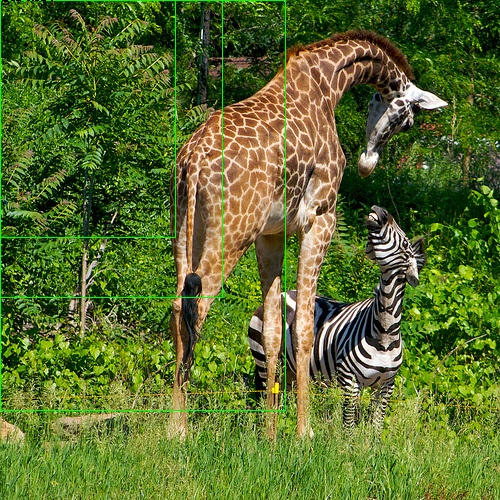
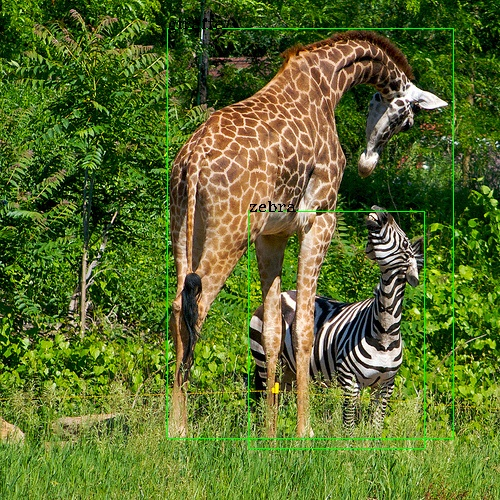
finish pipeline and bounding-box feature

diff --git a/bounding-box-drawer/main.py b/bounding-box-drawer/main.py
@@ -1,5 +1,5 @@
 import pathlib
-import os
+
 import cv2
 
 from coords_transformator import Coords_Transformator
@@ -28,13 +28,15 @@ if __name__ == '__main__':
 
             for prediction_object in prediction["objects"]:
                 coords_transformer = Coords_Transformator(img_path, prediction_object["relative_coordinates"])
-                coords = coords_transformer.get_coords_in_pixels()
-                min_tupel = (int(coords['xmin']), int(coords['ymin']))
-                max_tupel = (int(coords['xmax']), int(coords['ymax']))
+                if float(prediction_object['confidence']) > 0.75:
+                    coords = coords_transformer.get_coords_in_pixels()
+                    min_tupel = (int(coords['xmin']), int(coords['ymin']))
+                    max_tupel = (int(coords['xmax']), int(coords['ymax']))
 
-                cv_image = cv2.rectangle(cv_image, min_tupel, max_tupel, (0, 255, 0))
-                cv_image = cv2.putText(cv_image, prediction_object["name"], min_tupel, cv2.FONT_HERSHEY_COMPLEX, 0.5,
-                                       (0, 0, 0), 1)
+                    cv_image = cv2.rectangle(cv_image, min_tupel, max_tupel, (0, 255, 0))
+                    cv_image = cv2.putText(cv_image, prediction_object["name"], min_tupel, cv2.FONT_HERSHEY_COMPLEX,
+                                           0.5,
+                                           (0, 0, 0), 1)
 
             # cv2.imshow("Show", cv_image)
             cv2.imwrite(

diff --git a/tensorflow-object-detection/notebooks/predictor.py b/tensorflow-object-detection/notebooks/predictor.py
@@ -91,8 +91,8 @@ class Predictor:
         ymax = box[2]
         xmax = box[3]
 
-        coords["center_x"] = (xmax - xmin) + xmin
-        coords["center_y"] = (ymax - ymin) + ymin
+        coords["center_x"] = ((xmax - xmin) / 2) + xmin
+        coords["center_y"] = ((ymax - ymin) /2 ) + ymin
         coords["width"] = (xmax - xmin)
         coords["height"] = (ymax - ymin)
 
